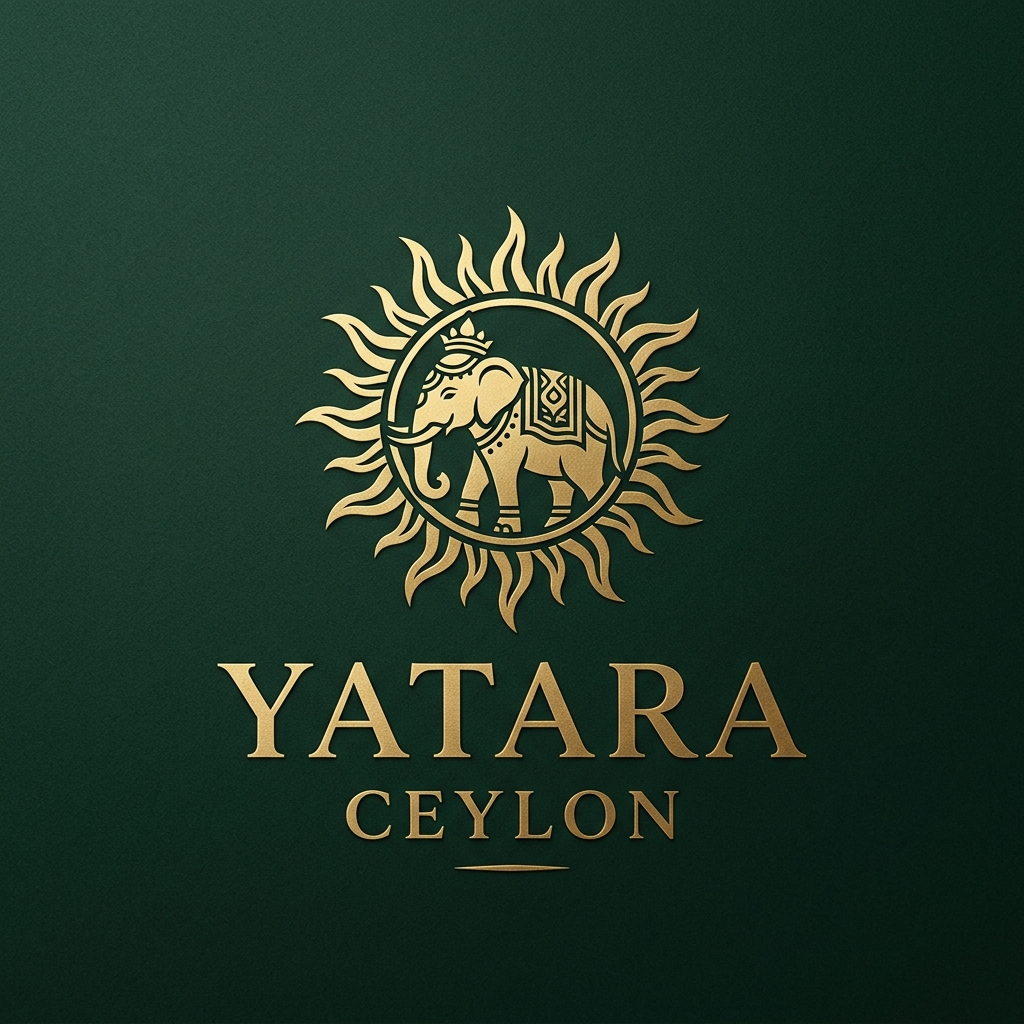
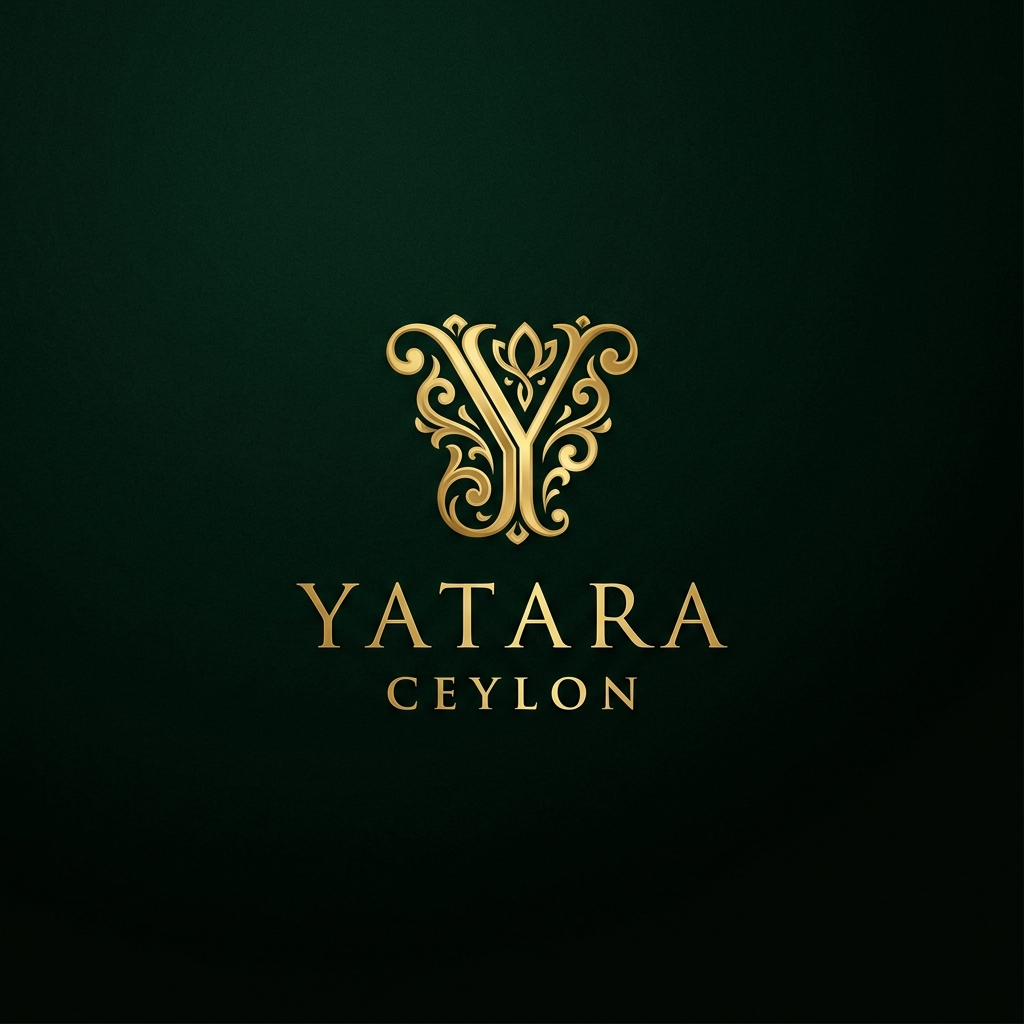
Fully recreated loading and splash screen with premium Yatara Ceylon branding

diff --git a/yatara-mobile/src/navigation/AppNavigator.tsx b/yatara-mobile/src/navigation/AppNavigator.tsx
@@ -4,6 +4,7 @@ import { createNativeStackNavigator } from '@react-navigation/native-stack';
 import { createBottomTabNavigator, BottomTabNavigationOptions } from '@react-navigation/bottom-tabs';
 import { ActivityIndicator, View, Text, Image } from 'react-native';
 import { MaterialCommunityIcons } from '@expo/vector-icons';
+import { LinearGradient } from 'expo-linear-gradient';
 
 import { AuthContext, isAdminOrStaff, isServiceProvider } from '../context/AuthContext';
 
@@ -212,16 +213,47 @@ const AppNavigator = () => {
 
   if (isLoading || !bootChecked) {
     return (
-      <View style={{ flex: 1, justifyContent: 'center', alignItems: 'center', backgroundColor: '#060D0B' }}>
-        <Image 
-          source={require('../../assets/icon.png')} 
-          style={{ width: 140, height: 140, marginBottom: 20 }}
-          resizeMode="contain"
-        />
-        <ActivityIndicator size="large" color="#D4AF37" />
-        <Text style={{ color: 'rgba(255,255,255,0.3)', marginTop: 14, fontSize: 12, letterSpacing: 2 }}>
-          YATARA CEYLON
-        </Text>
+      <View style={{ flex: 1 }}>
+        <LinearGradient
+          colors={['#0E1E16', '#060D0B', '#030706']}
+          style={{ flex: 1, justifyContent: 'center', alignItems: 'center' }}
+        >
+          <View style={{ 
+            width: 200, height: 200, 
+            borderRadius: 100, 
+            backgroundColor: 'rgba(212,175,55,0.03)',
+            justifyContent: 'center', alignItems: 'center',
+            borderWidth: 1, borderColor: 'rgba(212,175,55,0.05)'
+          }}>
+            <Image 
+              source={require('../../assets/icon.png')} 
+              style={{ width: 140, height: 140 }}
+              resizeMode="contain"
+            />
+          </View>
+          
+          <View style={{ marginTop: 40, alignItems: 'center' }}>
+            <ActivityIndicator size="small" color="#D4AF37" />
+            <Text style={{ 
+              color: '#D4AF37', 
+              marginTop: 24, 
+              fontSize: 10, 
+              fontWeight: 'bold',
+              letterSpacing: 4,
+              opacity: 0.8
+            }}>
+              YATARA CEYLON
+            </Text>
+            <Text style={{ 
+              color: 'rgba(255,255,255,0.3)', 
+              marginTop: 8, 
+              fontSize: 9, 
+              letterSpacing: 1
+            }}>
+              LUXURY JOURNEYS
+            </Text>
+          </View>
+        </LinearGradient>
       </View>
     );
   }